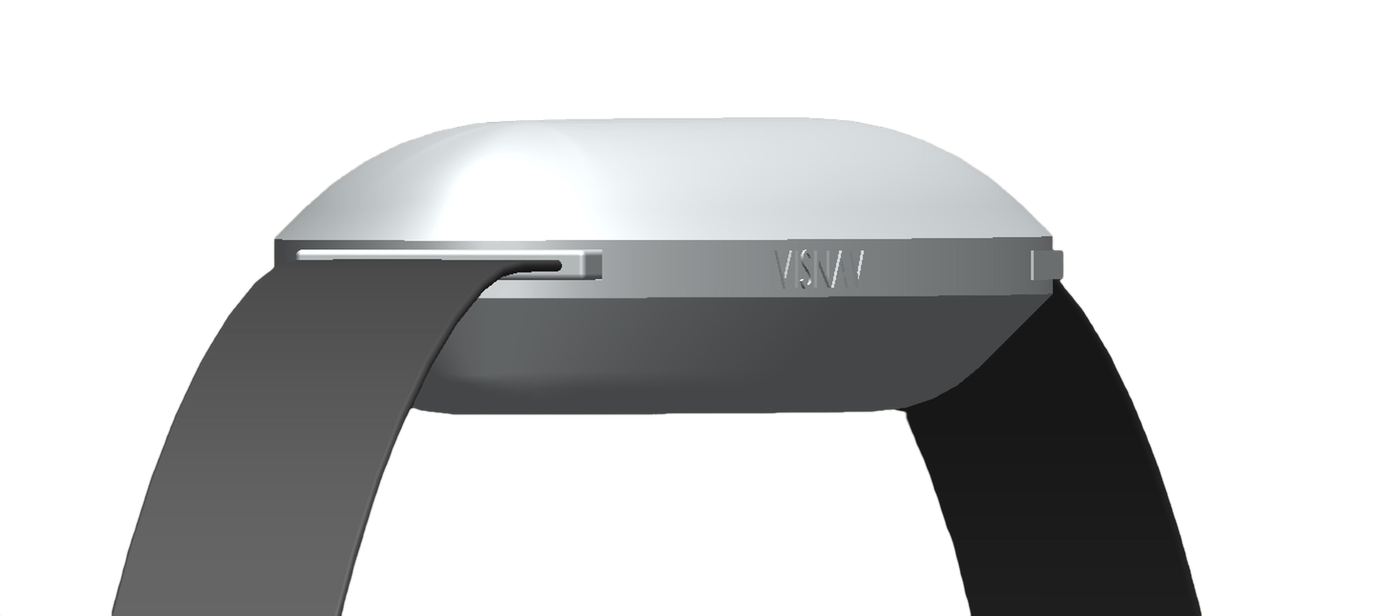
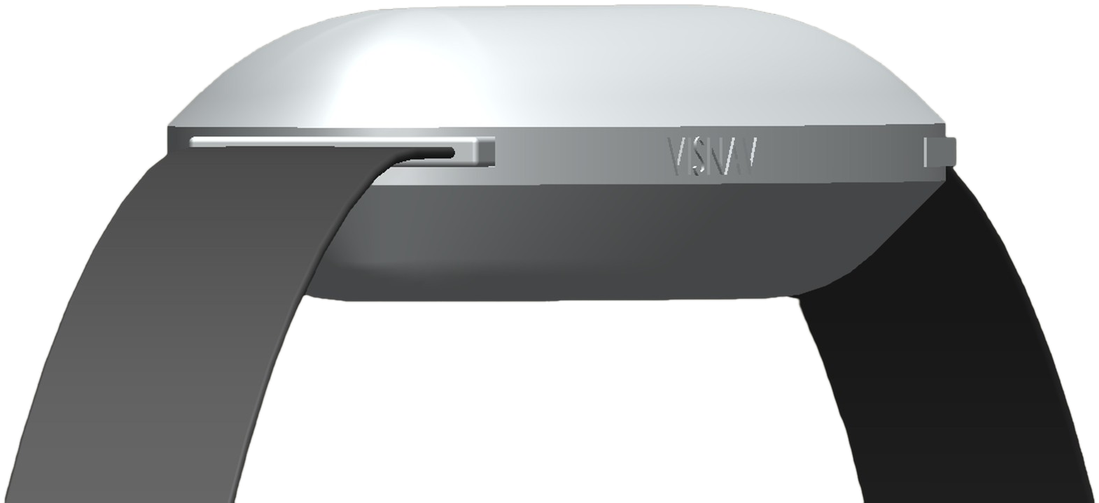
Add files via upload

diff --git a/visnav.html b/visnav.html
@@ -7,7 +7,7 @@
 <meta name="description" content="Two haptic wristbands that tell a visually impaired sailor which way to steer.">
 <link rel="icon" href="logo.svg" type="image/svg+xml">
 <link rel="preconnect" href="https://fonts.googleapis.com"><link rel="preconnect" href="https://fonts.gstatic.com" crossorigin><link rel="stylesheet" href="https://fonts.googleapis.com/css2?family=Bricolage+Grotesque:opsz,wght@12..96,400;12..96,500;12..96,600;12..96,700&family=Figtree:wght@400;500;600&family=Montserrat:wght@300&display=swap">
-<style>.vn-title{display:flex;align-items:center;gap:clamp(14px,2vw,28px)}.p-hero .vn-title h1{font-family:"Montserrat",sans-serif;font-weight:300;letter-spacing:.02em;color:#050FD1;font-size:clamp(3rem,1.2rem + 6vw,7rem);line-height:1}.vn-vis{color:#59A7F6}.vn-icon{height:clamp(56px,7vw,110px);width:auto}</style>
+<style>.vn-title{display:flex;align-items:center;gap:clamp(14px,2vw,28px)}.p-hero .vn-title h1{font-family:"Montserrat",sans-serif;font-weight:300;letter-spacing:.02em;color:#050FD1;font-size:clamp(3rem,1.2rem + 6vw,7rem);line-height:1}.vn-vis{color:#59A7F6}.vn-icon{height:clamp(56px,7vw,110px);width:auto}.p-hero{align-items:center}.p-hero .slot{aspect-ratio:auto}</style>
 <link rel="stylesheet" href="style.css?v=7">
 </head>
 <body>

diff --git a/index.html b/index.html
@@ -49,7 +49,7 @@
                     </button>
                     <button class="item" type="button" data-slug="visnav" style="--accent:#050FD1" aria-haspopup="dialog">
                         <figure class="slot" data-file="visnav-band.png">
-                            <img src="visnav-band.png" alt="Side view render of the VisNav wristband" loading="lazy">
+                            <img src="visnav-band.png" alt="Side view render of the VisNav wristband" loading="lazy" style="object-position:center bottom">
                         </figure>
                         <span class="meta"><span class="name">VisNav</span><span class="dot" aria-hidden="true"></span></span>
                         <span class="kind">Wearable, final-year project</span>
